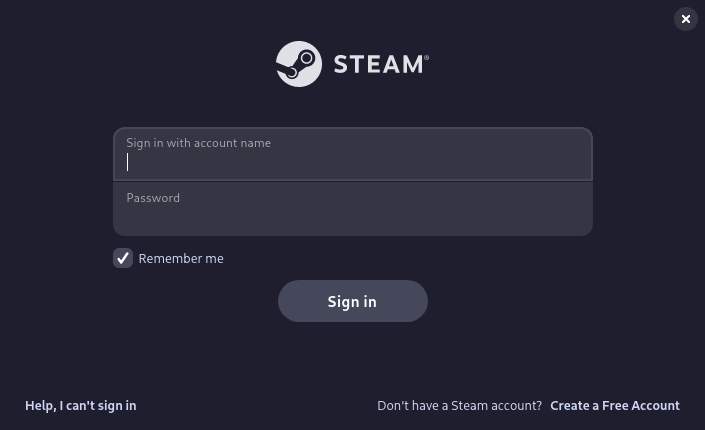
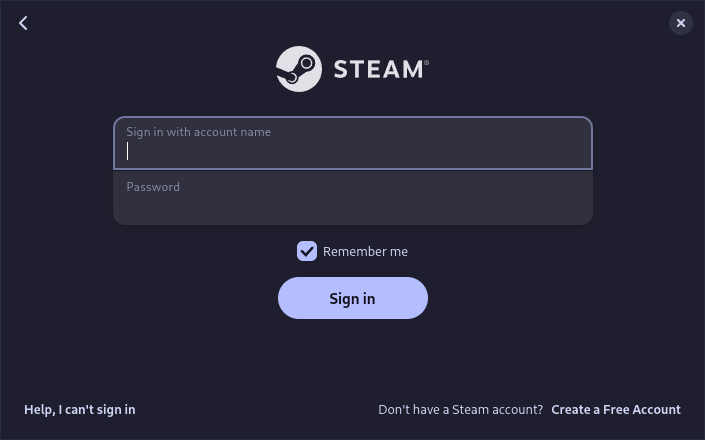
Color theme fixes and new previews

diff --git a/adwaita/colorthemes/yaru/yaru.css b/adwaita/colorthemes/yaru/yaru.css
@@ -54,9 +54,9 @@
 	--adw-card-shade-a: 0.36 !important;
 
 	/* Icons */
[10 lines of base64/hex data omitted]
 }

diff --git a/adwaita/colorthemes/oled/oled.css b/adwaita/colorthemes/oled/oled.css
@@ -1,0 +1,32 @@
+:root {
+	/* Window */
+	--adw-window-bg-rgb: 0, 0, 0 !important;
+
+	/* Views - e.g. text view or tree view */
+	--adw-view-bg-rgb: 0, 0, 0 !important;
+
+	/* Header bar, search bar, tab bar */
+	--adw-headerbar-bg-rgb: 0, 0, 0 !important;
+	--adw-headerbar-shade-rgb: 0, 0, 0 !important;
+	--adw-headerbar-darker-shade-rgb: 0, 0, 0 !important;
+
+	/* Split pane views */
+	--adw-sidebar-bg-rgb: 0, 0, 0 !important;
+	--adw-sidebar-backdrop-rgb: 0, 0, 0 !important;
+	--adw-sidebar-shade-rgb: 0, 0, 0 !important;
+
+	--adw-secondary-sidebar-bg-rgb: 0, 0, 0 !important;
+
+	/* Dialogs */
+	--adw-dialog-bg-rgb: 0, 0, 0 !important;
+
+	/* Popovers */
+	--adw-popover-bg-rgb: 0, 0, 0 !important;
+	--adw-popover-shade-rgb: 0, 0, 0 !important;
+
+	/* Thumbnails */
+	--adw-thumbnail-bg-rgb: 0, 0, 0 !important;
+
+	/* Miscellaneous */
+	--adw-shade-rgb: 0, 0, 0 !important;
+}

diff --git a/adwaita/css/main/headerbar/headerbar.css b/adwaita/css/main/headerbar/headerbar.css
@@ -37,6 +37,12 @@ body.DesktopUI div._1ENHEsrSLcTRtPQFl1F-wL::after
 	z-index: 999;
 }
 
+body.DesktopUI div[class*="steamdesktop_Wrapper_"].Maximized::after,
+body.DesktopUI div._1ENHEsrSLcTRtPQFl1F-wL.Maximized::after
+{
+	border: 1px transparent solid;
+}
+
 /* Focus Bar */
 body.DesktopUI div[class*="steamdesktop_Wrapper_"] > div[class*="steamdesktop_FocusBar_"],
 body.DesktopUI div._1ENHEsrSLcTRtPQFl1F-wL > div._3pXasCUulX4jjqO79s4q_F

diff --git a/adwaita/css/widgets/dialogs.css b/adwaita/css/widgets/dialogs.css
@@ -13,6 +13,12 @@ html.client_chat_frame div#popup_target::after
 	z-index: 999;
 }
 
+body.DesktopUI div#popup_target:has(div._1ENHEsrSLcTRtPQFl1F-wL.Maximized)::after,
+html.client_chat_frame div#popup_target:has(div._1ENHEsrSLcTRtPQFl1F-wL.Maximized)::after
+{
+	border: 1px transparent solid;
+}
+
 body.DesktopUI .ModalPosition_TopBar,
 body.DesktopUI .singleWindowFocusBar,
 body.DesktopUI .title-area .title-area-highlight,
